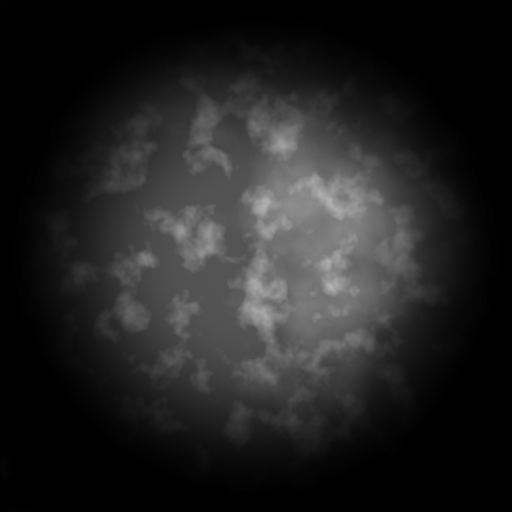
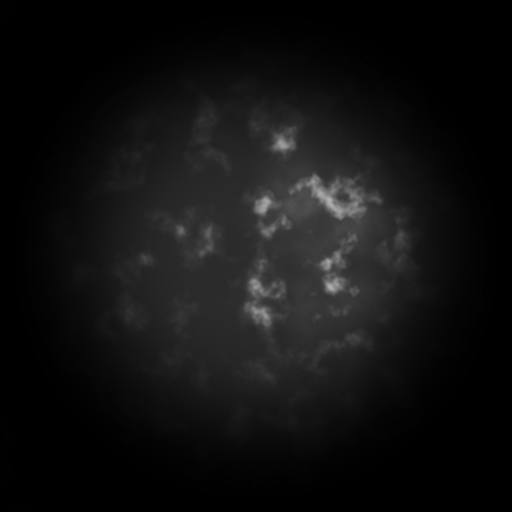
ok begint er lekker uit te zien

diff --git a/demos/marcheerDemo.cpp b/demos/marcheerDemo.cpp
@@ -6,12 +6,12 @@ int main()
 	weergaveSchermVierkant scherm("Marcheer Demo", 1024, 1024, false);
 	scherm.maakShader("marcheerDemo", "shaders/marcheerDemo.vert", "shaders/marcheerDemo.frag");
 
-	scherm.laadTextuurUitPng("plaatjes/landRuis.png", "landRuis", true, true, false);
+	scherm.laadTextuurUitPng("plaatjes/handLand.png", "handLand", true, true, false);
 
 	while(!scherm.stopGewenst())
 	{
 		scherm.bereidWeergevenVoor();
-		scherm.bindTextuur("landRuis", glGetUniformLocation(scherm.huidigProgramma(), "landRuis"));
+		scherm.bindTextuur("handLand", glGetUniformLocation(scherm.huidigProgramma(), "landRuis"));
 		scherm.geefWeer();
 		scherm.rondWeergevenAf();
 	}
